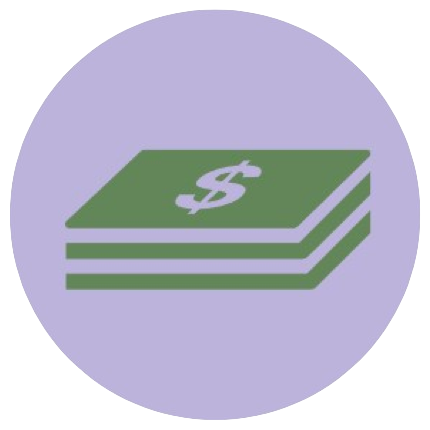
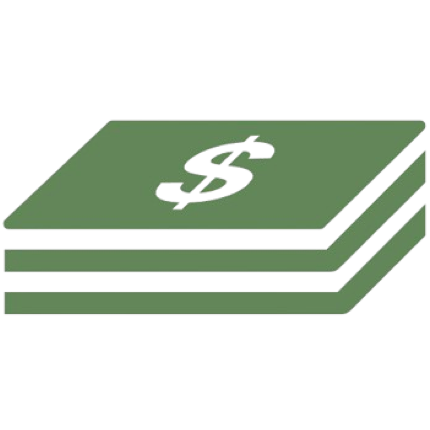
updated assests and component styling

diff --git a/src/components/NavBar.jsx b/src/components/NavBar.jsx
@@ -6,28 +6,28 @@ export default function NavBar() {
 
   return (
     <div>
-      <Navbar className="bg-body-tertiary">
+      <Navbar className="bg-nyan p-2">
         <Container fluid>
           <Image src={Logo} height={50}/>
           <Navbar.Toggle aria-controls="basic-navbar-nav" />
           <Navbar.Collapse id="basic-navbar-nav">
             
-            <Nav className="me-auto">
+            <Nav className="me-auto p-3">
 
               <Link className="nav-link" to='/'>Home</Link>
               <Link className="nav-link" to='/dashboard'>Dashboard/Login</Link>
 
               <NavDropdown title="Dropdown" id="basic-nav-dropdown">
 
-                <NavDropdown.Item>
+                <NavDropdown.Item  className='dd'>
                   <Link className="nav-link dropdown-link" to='/profile' >Profile</Link>
                 </NavDropdown.Item>
-                <NavDropdown.Item>
+                <NavDropdown.Item  className='dd'>
                   <Link className="nav-link dropdown-link" to='/settings' >Settings</Link>
                 </NavDropdown.Item>
                 <NavDropdown.Divider/>
-                <NavDropdown.Item>
-                  <Button>Logout</Button>
+                <NavDropdown.Item className='ddlo'>
+                  <Button className='bg-reseda btn-reseda'>Logout</Button>
                 </NavDropdown.Item>
 
               </NavDropdown>

diff --git a/src/App.css b/src/App.css
@@ -1,6 +1,7 @@
 #root {
   max-width: 100vw;
   height: 100vh;
+  /* background-color: #FAFFF8; */
 }
 
 .bg-reseda {
@@ -9,4 +10,37 @@
 
 .bg-peri {
   background-color: #BBB3DB;
+}
+
+.bg-tea {
+  background-color: #D0F1BF;
+}
+
+.bg-nyan {
+  background-color: #E0FFD2;
+}
+
+.dd:active {
+  background-color: rgb(99, 133, 90, .2) !important;
+}
+
+.ddlo:active {
+  background-color: #FFFFFF !important;
+}
+.ddlo:hover {
+  background-color: #FFFFFF !important;
+}
+
+.btn-reseda {
+  /* --bs-btn-font-weight: 600; */
+  --bs-btn-color: #FFFFFF;
+  --bs-btn-bg: #63855A;
+  --bs-btn-border-color: #63855A;
+  --bs-btn-hover-color: #FFFFFF;
+  --bs-btn-hover-bg: rgb(99, 133, 90, .9);
+  --bs-btn-hover-border-color: rgb(99, 133, 90, .9);
+  --bs-btn-focus-shadow-rgb: #63855A;
+  --bs-btn-active-color: #FFFFFF;
+  --bs-btn-active-bg:rgb(99, 133, 90, .8);
+  --bs-btn-active-border-color:rgb(99, 133, 90, .8);
 }

diff --git a/src/components/DashItem.jsx b/src/components/DashItem.jsx
@@ -25,8 +25,8 @@ export default function DashItem ({title, data, setData}){
                     <h1>{title}</h1>
                 </Col>
                 <Col xs={3} className='d-flex justify-content-end'>
-                    <Button id={title +'-add'}><i className="bi bi-plus"></i></Button>
-                    <Button className='ms-1' id={title +'-del'}><i className="bi bi-trash3"></i></Button>
+                    <Button className='btn-reseda' id={title +'-add'}><i className="bi bi-plus"></i></Button>
+                    <Button className='ms-1 btn-reseda' id={title +'-del'}><i className="bi bi-trash3"></i></Button>
                 </Col>
             </Row>
             {display}
